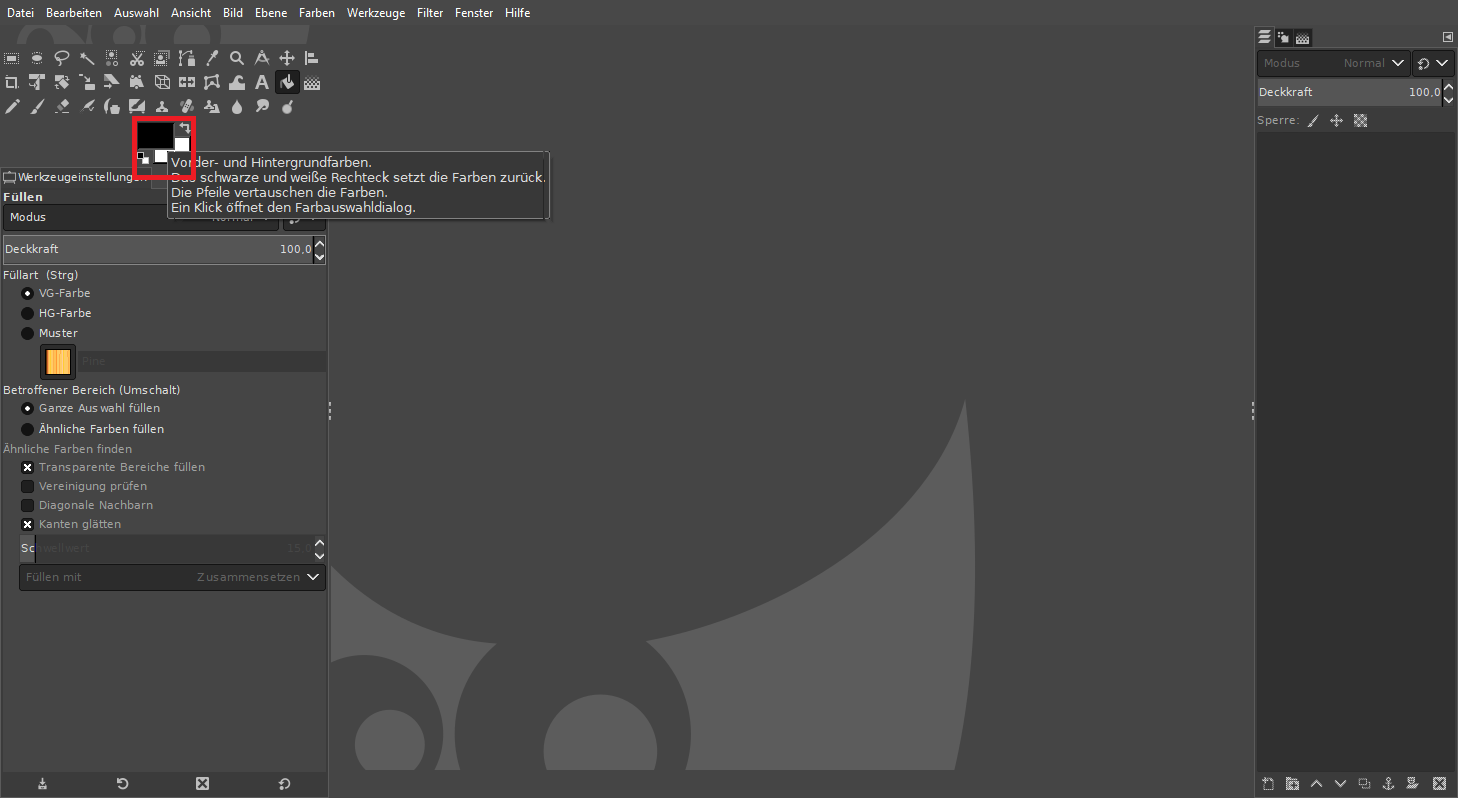
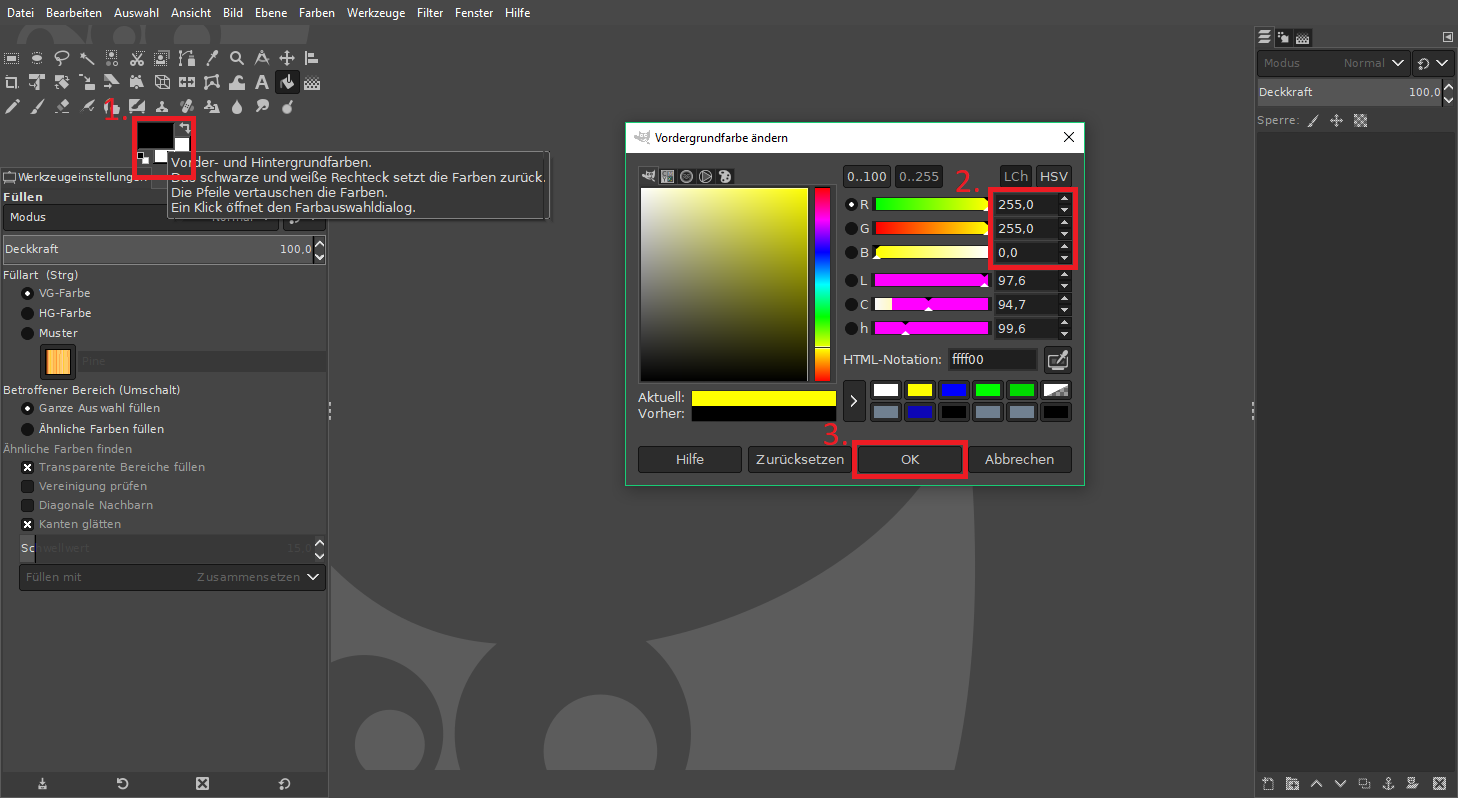
UPDATE instructrions

Changed region(s): [[0.4012, 0.1504, 0.7716, 0.6015], [0.0617, 0.1203, 0.0926, 0.1504]]

diff --git a/material/instruction.md b/material/instruction.md
@@ -6,18 +6,20 @@
 
 ![](https://www.gimp.org/images/frontpage/wilber-big.png)
 
-### Farbe einstelleen
 
-#### 1. 
+
+### Farbe einstellen in 2 Schritten
+
 ![](img-instruction/03_color.png)
 
-####2.
+1.  Auf *Vorder- und Hintergrundfarben* klicken
+2.  In dem sich öffnenden Dialog die RGB-Werte eintragen
+    +   R: 255
+    +   G: 255
+    +   B: 0
+3.  Mit *OK* den Dialog schließen
 
-![](img-instruction/04_color-d1.png)
-+   R: 255, G: 255, B: 0
-+   Die Werte können direkt eingetippt werden, mit **OK** bestätigen.
-    +   Diese Einstellung sollte erhalten bleiben, egal wie viele Dateien in in Folge öffnet, ggf. sogar beim Programmneustart.
-
+Diese Einstellung sollte erhalten bleiben, egal wie viele Dateien in in Folge öffnet, ggf. sogar beim Programmneustart.
 
 ## Workflow
 
